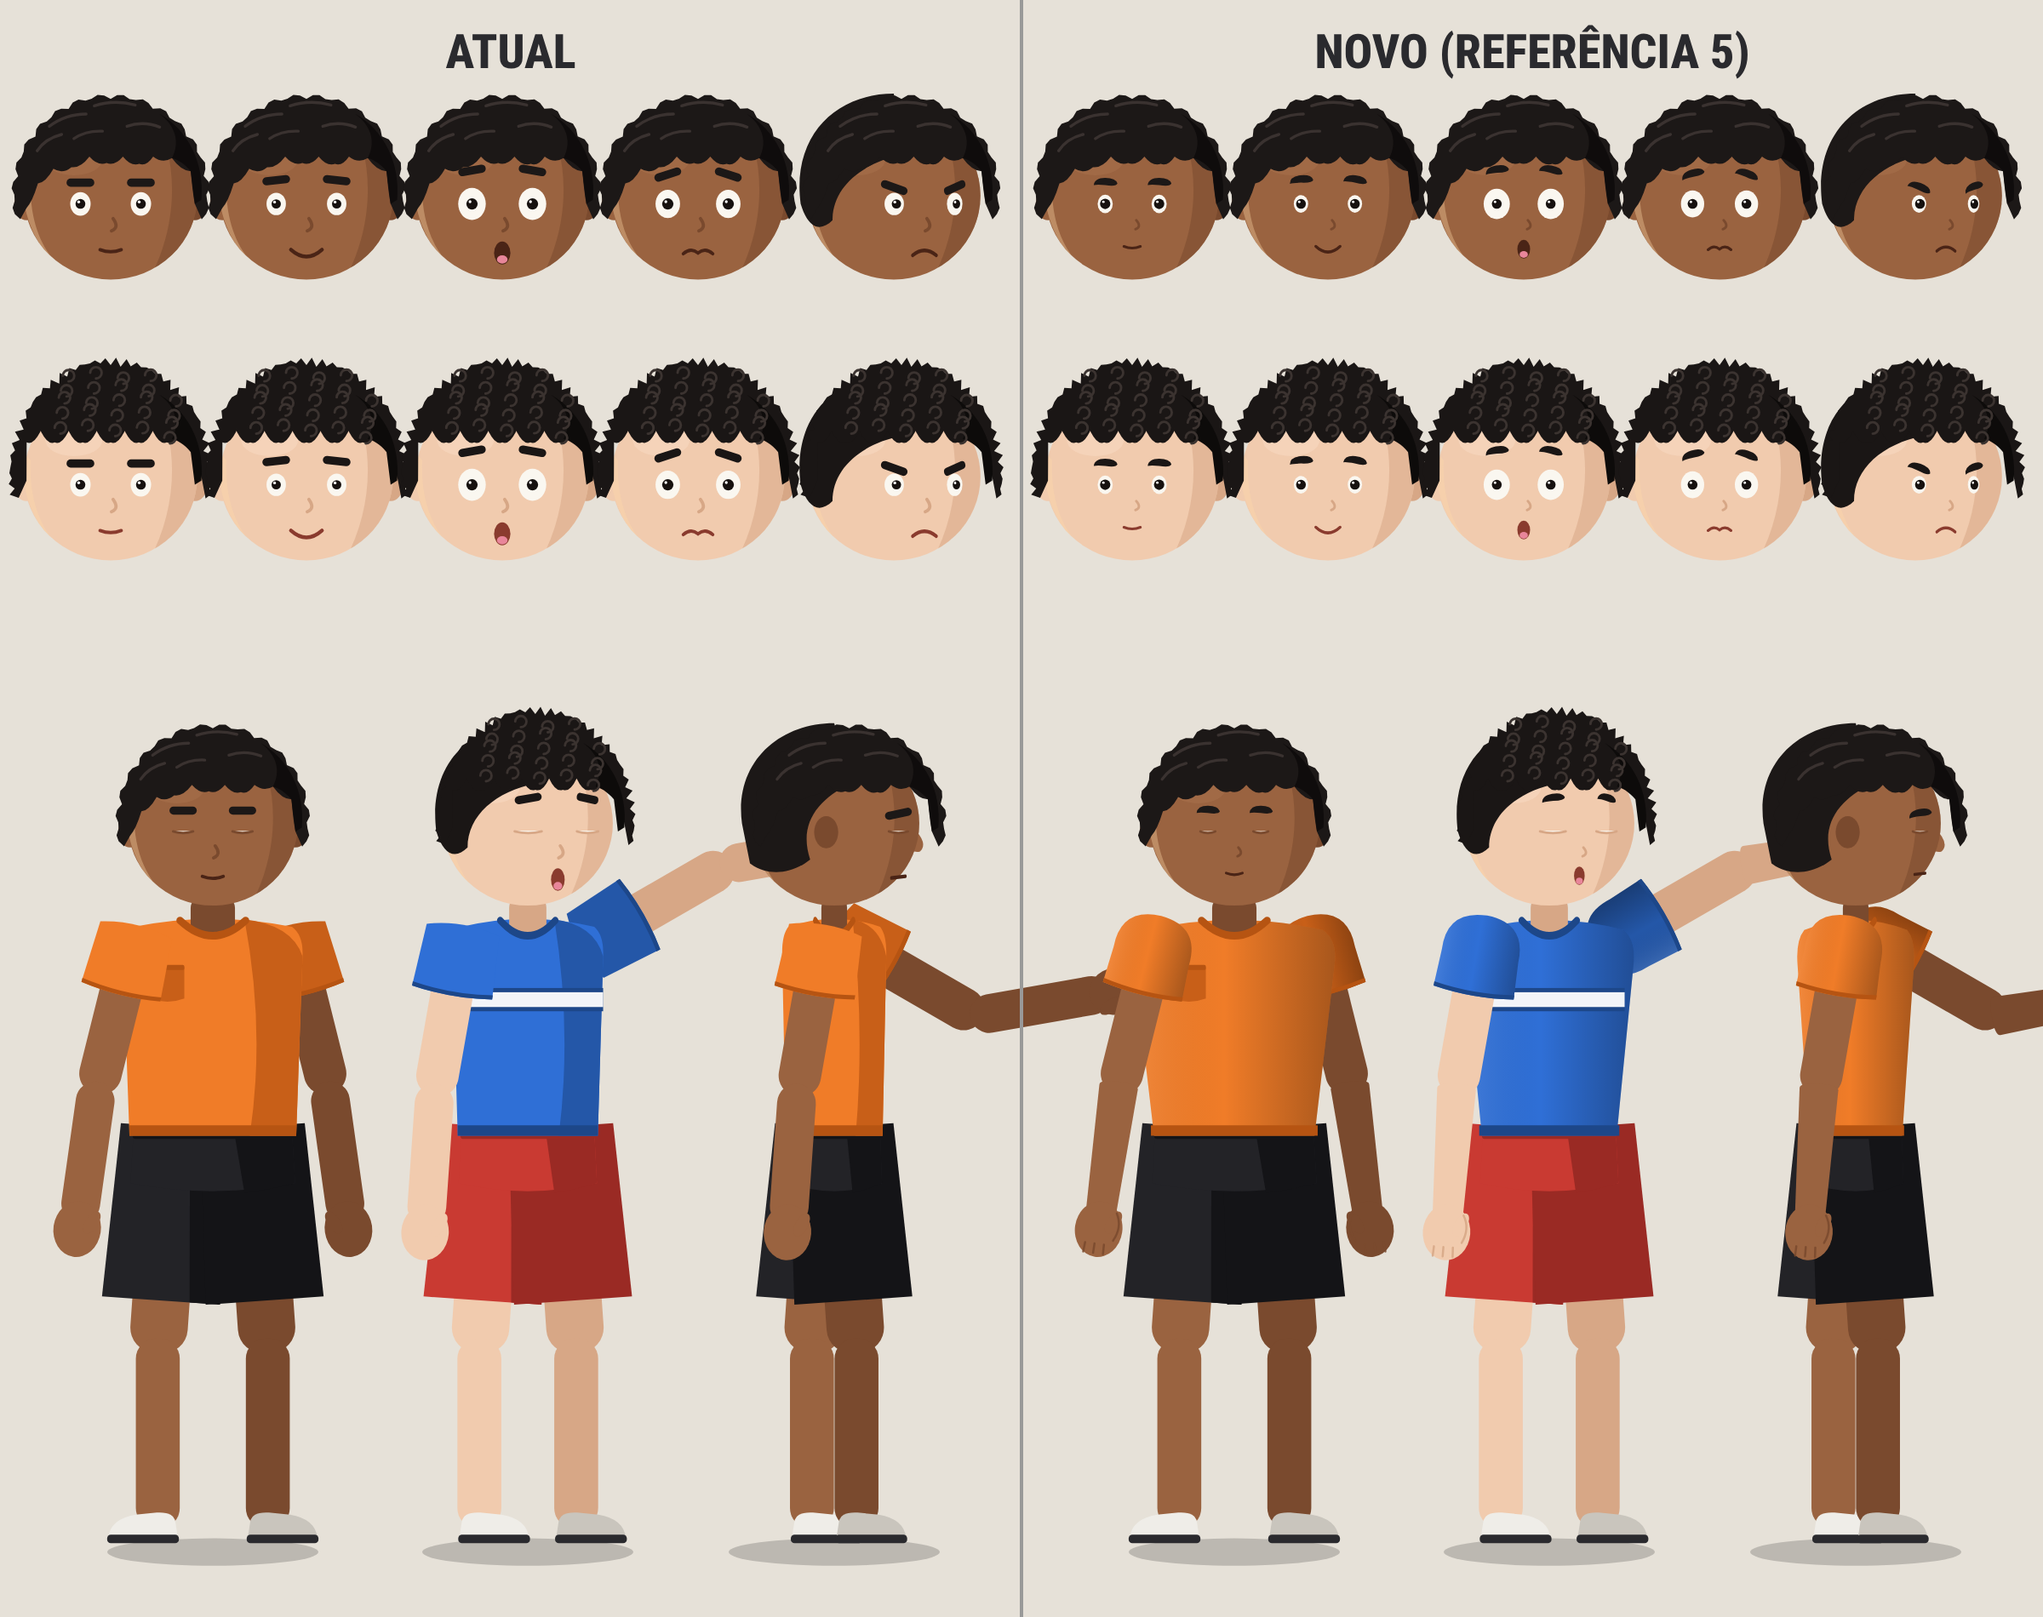
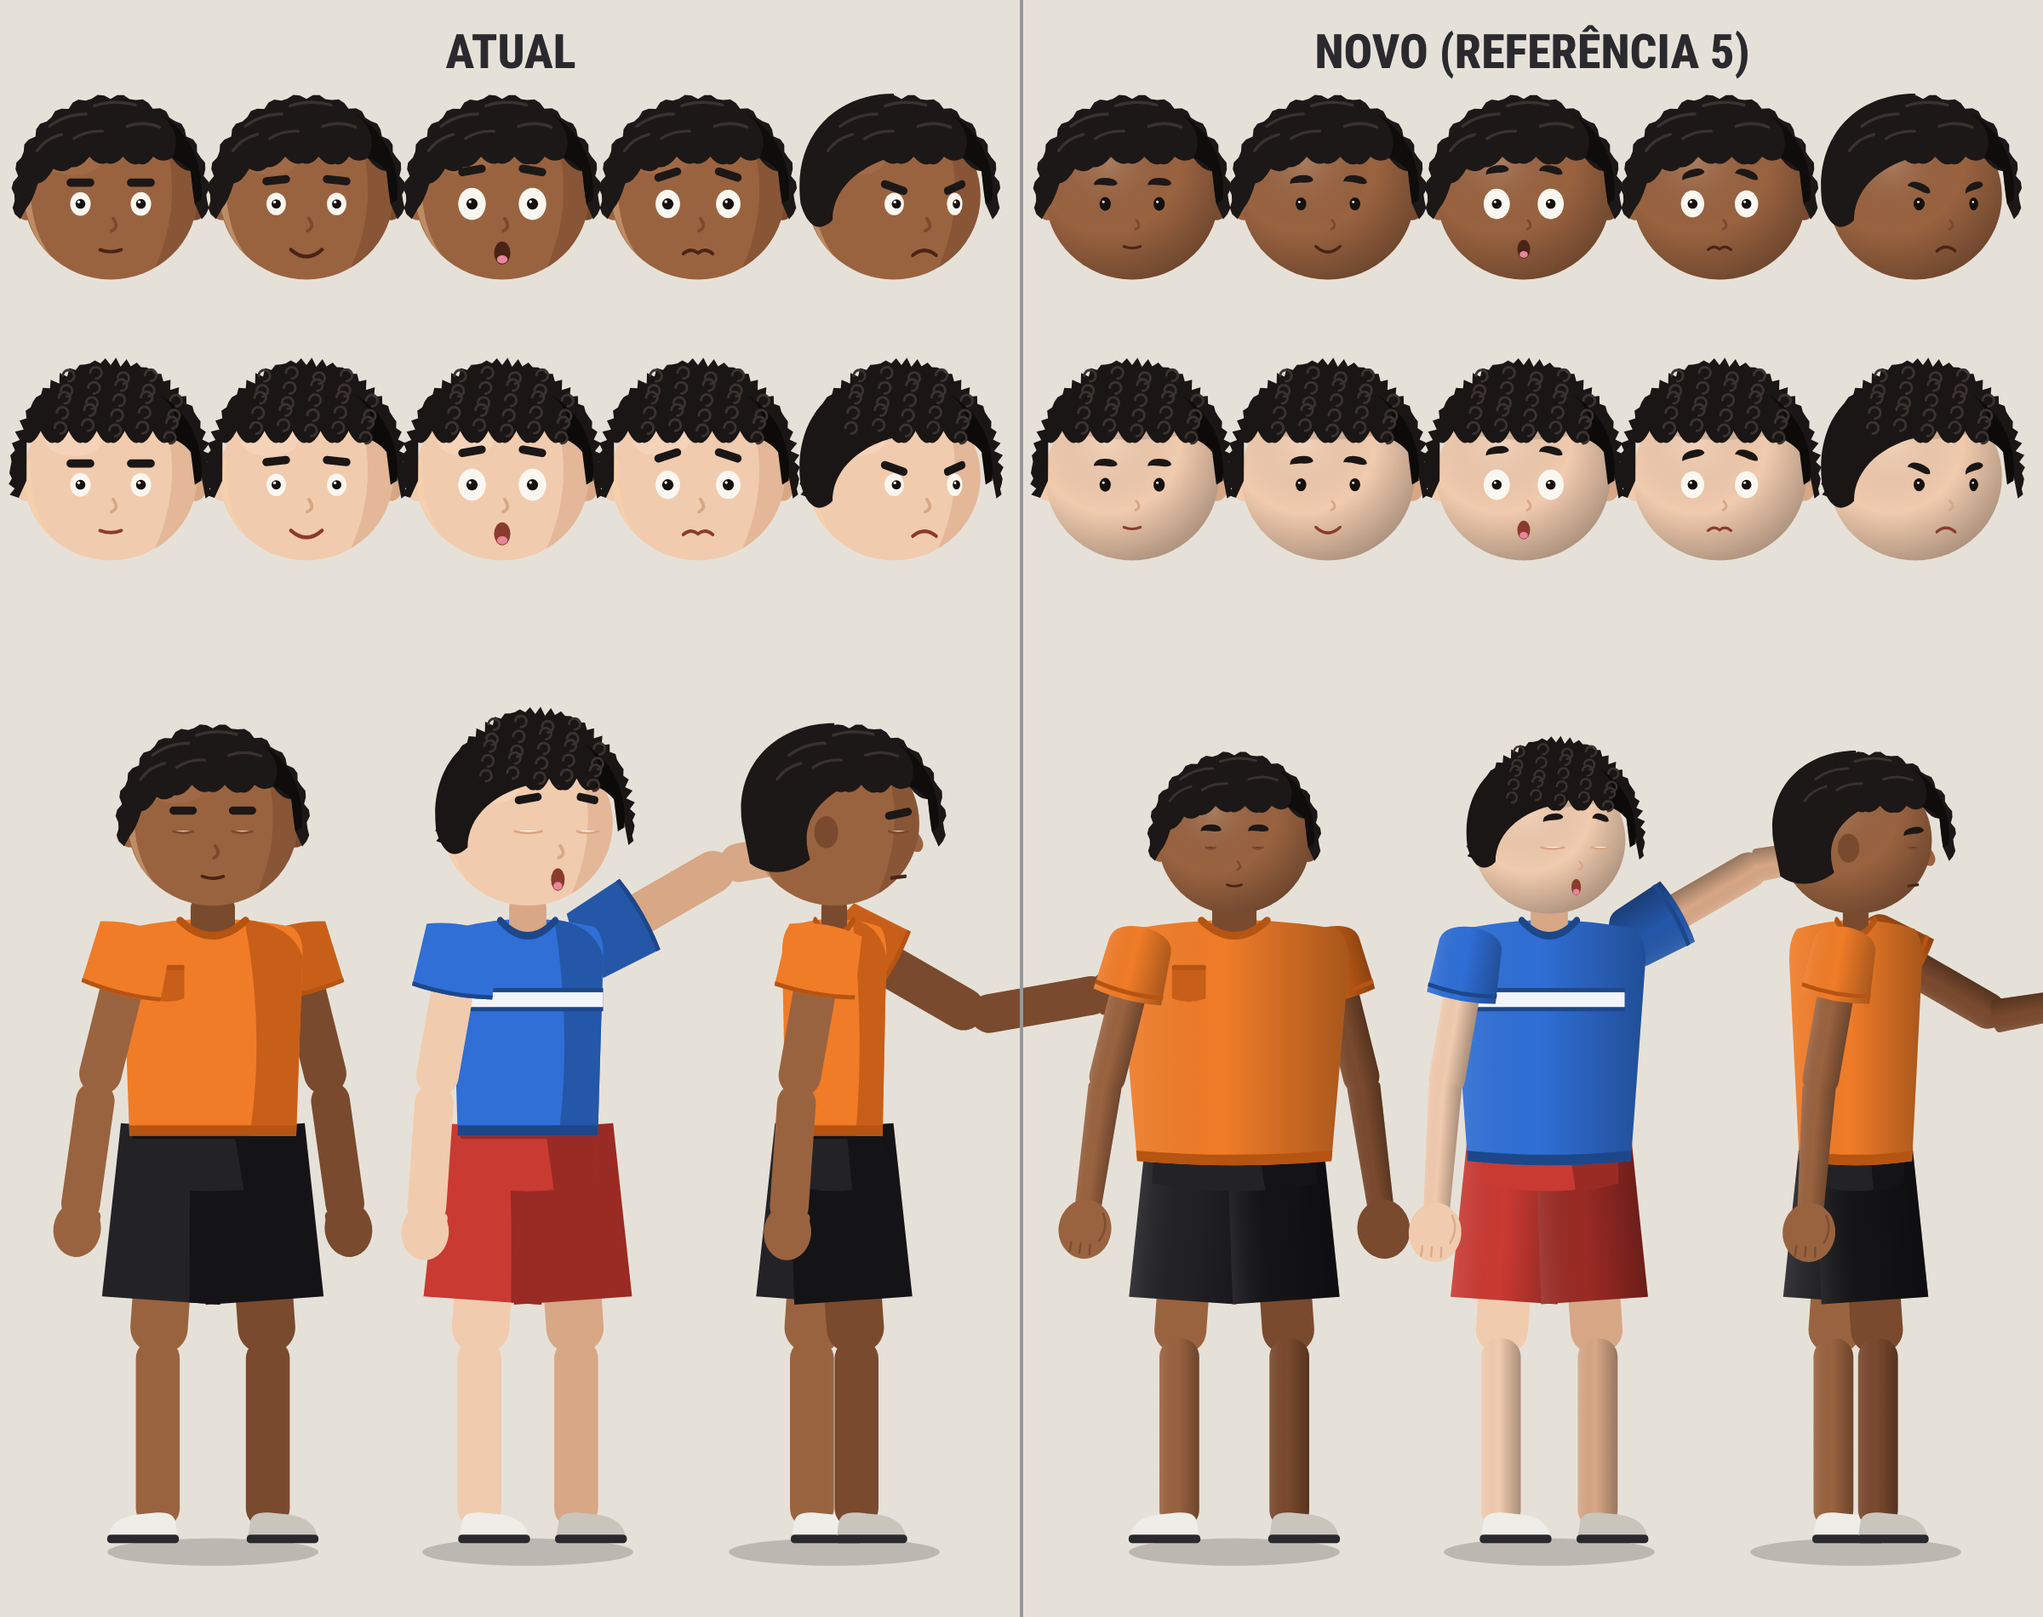
Rosto 3, rodada 2: cabeça menor, camiseta larga, olhos ovais, sombra em degradê
Claude-Session: https://claude.ai/code/session_01VxVnSB2Gp8guziDvUfHTY2

diff --git a/estudio/src/personagens/Chede.tsx b/estudio/src/personagens/Chede.tsx
@@ -108,15 +108,15 @@ const Olho: React.FC<{
   const cor = A.corPoder ?? "#FFB21E";
   const r3 = React.useContext(Rosto3Ctx);
   const grande = esp >= 1.15; // susto/medo: olho redondo grande
-  const k3 = r3 ? (grande ? 0.95 : 0.74) : 1;
+  const k3 = r3 ? (grande ? 0.95 : 0.55) : 1;
   const rx = 25 * esp * k3;
   const ry = 29 * esp * k3 * (r3 && !grande ? 1.05 : 1) * (1 - piscar * 0.95);
-  const rp = r3 ? (grande ? 12 : rx * 0.68) : 12 * Math.min(esp, 1.15);
+  const rp = r3 ? (grande ? 12 : rx * 0.9) : 12 * Math.min(esp, 1.15);
   const mv = r3 ? (grande ? 9 : 4) : 9;
   const fechamento = Math.min(1, semicerrado);
   return (
     <g transform={`translate(${x},0)`}>
-      <ellipse cx={0} cy={0} rx={rx} ry={ry} fill={C.olhoBranco} />
+      <ellipse cx={0} cy={0} rx={rx} ry={ry} fill={r3 && !grande && !poder && !controlado ? C.pupila : C.olhoBranco} />
       {ry > 4 && (
         <>
           {poder > 0 && <ellipse cx={0} cy={0} rx={rx} ry={ry} fill={cor} opacity={0.35 * poder} />}
@@ -275,11 +275,29 @@ export const Cabeca: React.FC<{ expressao: Expressao; pose: Pose; vista?: Vista 
       {perfil && <path d="M 196 10 Q 236 50 214 70 Q 204 74 190 66 Z" fill={C.pele} />}
       {/* cabeça com sombra em faces */}
       <ellipse cx={0} cy={0} rx={212} ry={205} fill={C.pele} />
-      <g clipPath={`url(#clipCabeca-${vista})`}>
-        <path d="M 60 -260 C 170 -150 190 80 60 260 L 300 260 L 300 -260 Z" fill={C.peleSombra} opacity={0.55} />
-        <ellipse cx={-90} cy={-90} rx={70} ry={40} fill={C.peleLuz} opacity={0.35} />
-        <path d="M -212 -60 C -230 40 -170 160 -90 200 C -170 150 -200 60 -196 -40 Z" fill="#FFD9A8" opacity={0.35} />
-      </g>
+      {r3 ? (
+        <g>
+          {/* sombra suave em degradê (estilo da referência 5): luz em cima à esquerda, sombra embaixo à direita */}
+          <defs>
+            <radialGradient id="rostoSuave3" cx="0.36" cy="0.3" r="0.82">
+              <stop offset="0" stopColor="#FFFFFF" stopOpacity={0.16} />
+              <stop offset="0.5" stopColor="#000000" stopOpacity={0} />
+              <stop offset="1" stopColor="#000000" stopOpacity={0.34} />
+            </radialGradient>
+          </defs>
+          <ellipse cx={0} cy={0} rx={212} ry={205} fill="url(#rostoSuave3)" />
+          <g clipPath={`url(#clipCabeca-${vista})`}>
+            {/* sombra do cabelo na testa, desfocada */}
+            <ellipse cx={0} cy={-170} rx={230} ry={80} fill="#000" opacity={0.12} />
+          </g>
+        </g>
+      ) : (
+        <g clipPath={`url(#clipCabeca-${vista})`}>
+          <path d="M 60 -260 C 170 -150 190 80 60 260 L 300 260 L 300 -260 Z" fill={C.peleSombra} opacity={0.55} />
+          <ellipse cx={-90} cy={-90} rx={70} ry={40} fill={C.peleLuz} opacity={0.35} />
+          <path d="M -212 -60 C -230 40 -170 160 -90 200 C -170 150 -200 60 -196 -40 Z" fill="#FFD9A8" opacity={0.35} />
+        </g>
+      )}
       {perfil && <ellipse cx={-20} cy={22} rx={30} ry={40} fill={C.peleSombra} />}
       {/* cabelo */}
       {costas ? (
@@ -579,11 +597,13 @@ const Braco: React.FC<{
   const mangaLonga = terno || A.roupa === "moletom";
   const pele = sombra ? C.peleSombra : C.pele;
   const manga = sombra ? C.camisaSombra : C.camisa;
-  const k = React.useContext(Corpo2Ctx) ? 1.75 : 1;
+  const r3b = React.useContext(Rosto3Ctx);
+  const k = React.useContext(Corpo2Ctx) ? (r3b ? 1.5 : 1.75) : 1;
   return (
     <g transform={`rotate(${-ombro * lado})`}>
       {/* braço */}
       <rect x={-23 * k} y={0} width={46 * k} height={300} rx={23 * k} fill={pele} />
+      {r3b && <rect x={-23 * k} y={0} width={46 * k} height={300} rx={23 * k} fill="url(#sombraSuave3)" />}
       {mangaLonga ? (
         <path d={`M ${-40 * k} -20 Q 0 -40 ${40 * k} -20 L ${38 * k} 300 Q 0 312 ${-38 * k} 300 Z`} fill={manga} />
       ) : (
@@ -591,8 +611,8 @@ const Braco: React.FC<{
           {/* manga curta (estilo 3: ombro arredondado e degradê suave) */}
           {React.useContext(Rosto3Ctx) ? (
             <>
-              <path d={`M ${-42 * k} 30 Q ${-44 * k} -46 0 -48 Q ${44 * k} -46 ${42 * k} 30 L ${44 * k} 100 Q 0 112 ${-44 * k} 100 Z`} fill={manga} />
-              <path d={`M ${-42 * k} 30 Q ${-44 * k} -46 0 -48 Q ${44 * k} -46 ${42 * k} 30 L ${44 * k} 100 Q 0 112 ${-44 * k} 100 Z`} fill="url(#sombraSuave3)" />
+              <path d={`M ${-40 * k} 10 Q ${-38 * k} -22 0 -26 Q ${38 * k} -22 ${40 * k} 10 L ${44 * k} 110 Q 0 122 ${-44 * k} 110 Z`} fill={manga} />
+              <path d={`M ${-40 * k} 10 Q ${-38 * k} -22 0 -26 Q ${38 * k} -22 ${40 * k} 10 L ${44 * k} 110 Q 0 122 ${-44 * k} 110 Z`} fill="url(#sombraSuave3)" />
             </>
           ) : (
             <path d={`M ${-40 * k} -20 Q 0 -40 ${40 * k} -20 L ${44 * k} 100 Q 0 112 ${-44 * k} 100 Z`} fill={manga} />
@@ -602,7 +622,10 @@ const Braco: React.FC<{
       )}
       <g transform={`translate(0,286) rotate(${-cotovelo * lado})`}>
         {React.useContext(Rosto3Ctx)
-          ? <path d={`M ${-21 * k} 0 Q ${-21 * k} -10 0 -10 Q ${21 * k} -10 ${21 * k} 0 L ${16 * k} 262 Q 0 272 ${-16 * k} 262 Z`} fill={pele} />
+          ? <>
+              <path d={`M ${-21 * k} 0 Q ${-21 * k} -10 0 -10 Q ${21 * k} -10 ${21 * k} 0 L ${16 * k} 262 Q 0 272 ${-16 * k} 262 Z`} fill={pele} />
+              <path d={`M ${-21 * k} 0 Q ${-21 * k} -10 0 -10 Q ${21 * k} -10 ${21 * k} 0 L ${16 * k} 262 Q 0 272 ${-16 * k} 262 Z`} fill="url(#sombraSuave3)" />
+            </>
           : <rect x={-21 * k} y={-10} width={42 * k} height={270} rx={21 * k} fill={pele} />}
         {mangaLonga && (
           <>
@@ -615,7 +638,7 @@ const Braco: React.FC<{
           </>
         )}
         {/* mão */}
-        <ellipse cx={0} cy={272} rx={34 * Math.sqrt(k)} ry={40 * Math.sqrt(k)} fill={A.maos ?? pele} />
+        <ellipse cx={0} cy={272} rx={34 * Math.sqrt(k) * (r3b ? 1.2 : 1)} ry={40 * Math.sqrt(k) * (r3b ? 1.15 : 1)} fill={A.maos ?? pele} />
         <ellipse cx={-26 * lado} cy={256} rx={12} ry={24} fill={A.maos ?? pele} transform={`rotate(${-25 * lado} ${-26 * lado} 256)`} />
         {React.useContext(Rosto3Ctx) && !A.maos && (
           <g stroke={C.peleSombra} strokeWidth={4} fill="none" strokeLinecap="round" opacity={0.85}>
@@ -645,13 +668,15 @@ const Perna: React.FC<{ lado: 1 | -1; quadril: number; joelho: number; sombra?: 
   const terno = A.estampa === "terno" || !!A.calca;
   const pe = paraDireita ? 1 : lado;
   const pele = sombra ? C.peleSombra : C.pele;
-  const k = React.useContext(Corpo2Ctx) ? 1.6 : 1;
+  const r3 = React.useContext(Rosto3Ctx);
+  const k = React.useContext(Corpo2Ctx) ? (r3 ? 1.45 : 1.6) : 1;
   return (
     <g transform={`rotate(${-quadril * lado})`}>
       {/* coxa */}
       <rect x={-34 * k} y={0} width={68 * k} height={390} rx={30 * k} fill={pele} />
       <g transform={`translate(0,376) rotate(${-joelho * lado})`}>
         <rect x={-26 * k} y={-14} width={52 * k} height={360} rx={24 * k} fill={pele} />
+        {r3 && <rect x={-26 * k} y={-14} width={52 * k} height={360} rx={24 * k} fill="url(#sombraSuave3)" />}
         {terno && <path d={`M ${-50 * k} -30 L ${50 * k} -30 L ${42 * k} 340 L ${-42 * k} 340 Z`} fill={sombra ? C.bermudaSombra : C.bermuda} />}
         {/* tênis */}
         <g transform={`translate(${12 * pe},364)`}>
@@ -665,14 +690,16 @@ const Perna: React.FC<{ lado: 1 | -1; quadril: number; joelho: number; sombra?: 
       ) : (
         <>
           <path d={`M ${-62 * k} -40 L ${62 * k} -40 L ${70 * k} 290 L ${-70 * k} 290 Z`} fill={sombra ? C.bermudaSombra : C.bermuda} />
-          {!sombra && <path d={`M ${20 * k} -40 L ${62 * k} -40 L ${70 * k} 290 L ${34 * k} 290 Z`} fill={C.bermudaSombra} />}
+          {r3
+            ? <path d={`M ${-62 * k} -40 L ${62 * k} -40 L ${70 * k} 290 L ${-70 * k} 290 Z`} fill="url(#sombraSuave3)" />
+            : !sombra && <path d={`M ${20 * k} -40 L ${62 * k} -40 L ${70 * k} 290 L ${34 * k} 290 Z`} fill={C.bermudaSombra} />}
         </>
       )}
     </g>
   );
 };
 
-const TRONCO3 = "M -168 -1170 Q 0 -1208 168 -1170 Q 196 -1150 190 -1104 L 152 -780 L -152 -780 L -190 -1104 Q -196 -1150 -168 -1170 Z";
+const TRONCO3 = "M -192 -1172 Q 0 -1206 192 -1172 Q 222 -1150 216 -1100 L 184 -732 Q 0 -716 -184 -732 L -216 -1100 Q -222 -1150 -192 -1172 Z";
 
 // ---------- Corpo inteiro ----------
 export const Chede: React.FC<{ expressao?: Expressao; pose?: Pose; vista?: Vista; semSombra?: boolean }> = ({
@@ -685,7 +712,7 @@ export const Chede: React.FC<{ expressao?: Expressao; pose?: Pose; vista?: Vista
   const c2 = React.useContext(Corpo2Ctx);
   const r3 = React.useContext(Rosto3Ctx);
   const sx = vista === "perfil" ? 0.58 : vista === "tresQuartos" ? 0.84 : 1;
-  const ombroX = vista === "perfil" ? 20 : 150 * sx;
+  const ombroX = vista === "perfil" ? 20 : (r3 ? 176 : 150) * sx;
   const quadrilX = vista === "perfil" ? 16 : (c2 ? 78 : 62) * sx;
   const costas = vista === "costas";
   const lateral = vista === "perfil" || vista === "tresQuartos";
@@ -757,7 +784,9 @@ export const Chede: React.FC<{ expressao?: Expressao; pose?: Pose; vista?: Vista
             <path d="M 60 -1190 Q 150 -1180 170 -1120 L 158 -780 L 70 -780 Q 100 -980 60 -1190 Z" fill={C.camisaSombra} />
           </>
         )}
-        <path d="M -158 -800 L 158 -800 L 158 -780 L -158 -780 Z" fill={C.camisaDetalhe} />
+        {r3
+          ? <path d="M -186 -752 Q 0 -736 186 -752 L 184 -732 Q 0 -716 -184 -732 Z" fill={C.camisaDetalhe} />
+          : <path d="M -158 -800 L 158 -800 L 158 -780 L -158 -780 Z" fill={C.camisaDetalhe} />}
         {/* pescoço + gola */}
         <rect x={-42} y={-1232} width={84} height={70} rx={20} fill={C.peleSombra} />
         {costas ? (
@@ -842,7 +871,7 @@ export const Chede: React.FC<{ expressao?: Expressao; pose?: Pose; vista?: Vista
           <Braco lado={-1} ombro={P.bracoE} cotovelo={P.antebracoE} />
         </g>
         {/* cabeça */}
-        <g transform={`translate(0,${c2 ? -1372 : -1420}) rotate(${P.cabeca ?? 0} 0 190) scale(${c2 ? 0.76 : 1})`}>
+        <g transform={`translate(0,${r3 ? -1340 : c2 ? -1372 : -1420}) rotate(${P.cabeca ?? 0} 0 190) scale(${r3 ? 0.68 : c2 ? 0.76 : 1})`}>
           <Cabeca expressao={expressao} pose={P} vista={vista} />
         </g>
       </g>

diff --git a/estudio/src/estilo2/Comparar.tsx b/estudio/src/estilo2/Comparar.tsx
@@ -1,0 +1,32 @@
+import React from "react";
+import { AbsoluteFill, Img, staticFile } from "remotion";
+import "@fontsource/roboto-condensed/800.css";
+import { Vivo } from "../episodios/comum";
+import { AparenciaCtx, APARENCIA_CHEDE, Cabeca } from "../personagens/Chede";
+import { APARENCIA_KAIK } from "../personagens/Kaik";
+
+// Referência 5 (quadros locais, fora do Git) ao lado dos nossos personagens, para ajustar o desenho.
+const T: React.FC<{ x: number; y: number; t: string }> = ({ x, y, t }) => (
+  <div style={{ position: "absolute", left: x, top: y, fontFamily: "Roboto Condensed", fontWeight: 800, fontSize: 44, color: "#222" }}>{t}</div>
+);
+export const Comparar: React.FC = () => (
+  <AbsoluteFill style={{ background: "#E6E1D8" }}>
+    <T x={40} y={20} t="REFERÊNCIA 5" />
+    <T x={40} y={1000} t="NOSSOS (NOVO)" />
+    {["q053", "q061", "q006", "q017", "q078"].map((q, i) => (
+      <Img key={q} src={staticFile(`tmp-ref/${q}.png`)} style={{ position: "absolute", left: 20 + i * 470, top: 80, width: 460, height: 818, objectFit: "cover" }} />
+    ))}
+    <svg viewBox="0 0 2400 900" width={2400} height={900} style={{ position: "absolute", left: 0, top: 1060 }}>
+      <rect x={20} y={0} width={460} height={818} fill="#8C9BC8" />
+      <rect x={490} y={0} width={460} height={818} fill="#7C88B8" />
+      <g transform="translate(250,560) scale(0.95)"><AparenciaCtx.Provider value={APARENCIA_KAIK}><Cabeca expressao="neutro" pose={{}} /></AparenciaCtx.Provider></g>
+      <g transform="translate(720,560) scale(0.95)"><AparenciaCtx.Provider value={APARENCIA_CHEDE}><Cabeca expressao="espanto" pose={{}} /></AparenciaCtx.Provider></g>
+      <rect x={960} y={0} width={460} height={818} fill="#6E7FB8" />
+      <Vivo quem="chede" x={1190} y={780} s={0.5} vista="frente" expr="raiva" pose={{ bracoE: 10, bracoD: 10 }} />
+      <rect x={1430} y={0} width={460} height={818} fill="#6E7FB8" />
+      <Vivo quem="kaik" x={1660} y={780} s={0.5} vista="tresQuartos" expr="determinado" pose={{ pernaE: 30, joelhoE: 40, pernaD: -10, bracoD: 40, antebracoD: 60 }} />
+      <rect x={1900} y={0} width={460} height={818} fill="#5E6FA8" />
+      <Vivo quem="chede" x={2130} y={780} s={0.5} vista="tresQuartos" expr="espanto" pose={{ bracoD: 70, antebracoD: 30, bracoE: 20 }} />
+    </svg>
+  </AbsoluteFill>
+);

diff --git a/estudio/src/Root.tsx b/estudio/src/Root.tsx
@@ -14,6 +14,7 @@ import { DURACAO_TESTE2, TesteEstilo2 } from "./estilo2/TesteEstilo2";
 import { DURACAO_HIBRIDO, TesteHibrido } from "./estilo2/TesteHibrido";
 import { Vitrine4 } from "./estilo2/Vitrine4";
 import { Debug } from "./estilo2/Debug";
+import { Comparar } from "./estilo2/Comparar";
 import { FichaFigurantes } from "./personagens/FichaFigurantes";
 import { FichaLia } from "./personagens/Lia";
 import { DURACAO_LIM4, Limites4 } from "./episodios/limites4/Limites4";
@@ -69,6 +70,7 @@ export const RemotionRoot: React.FC = () => (
     <Composition id="TesteKaik3D" component={TesteKaik3D} width={1080} height={1920} fps={30} durationInFrames={120} />
     <Composition id="Teste3D" component={Teste3D} width={1080} height={1920} fps={30} durationInFrames={90} defaultProps={{ modo: "baixo" as const }} />
     <Still id="FichaFigurantes" component={FichaFigurantes} width={2400} height={2000} />
+    <Still id="Comparar" component={Comparar} width={2400} height={1960} />
     <Still id="Debug" component={Debug} width={2400} height={1900} />
     <Still id="FotoPerfil" component={FotoPerfil} width={1080} height={1080} />
     <Still id="FichaLia" component={FichaLia} width={2400} height={1900} />

diff --git a/aprendizados.md b/aprendizados.md
@@ -163,4 +163,4 @@ Regras que valem para todos os vídeos. Cada uma com o motivo.
   - boca e nariz menores, sobrancelha curta e grossa, língua rosa na boca aberta;
   - polegar e linhas dos dedos marcados, antebraço afinando;
   - tronco com ombro arredondado e cintura mais fina, manga arredondada, sombra em degradê suave.
-  Comparação em `previas/teste-rosto-3.png`. Aguardando o usuário aprovar.
+  Rodada 2 (09/11): cabeça menor (0,68), camiseta mais larga e comprida até o quadril, olho normal = oval escura (branco só no susto), sombra em degradê no rosto, braços e pernas, braços/pernas um pouco mais finos, mãos maiores, manga sem ombreira. Comparação em `previas/teste-rosto-3.png`. Usuário: "reajustar até pegar o resultado que eu goste".
